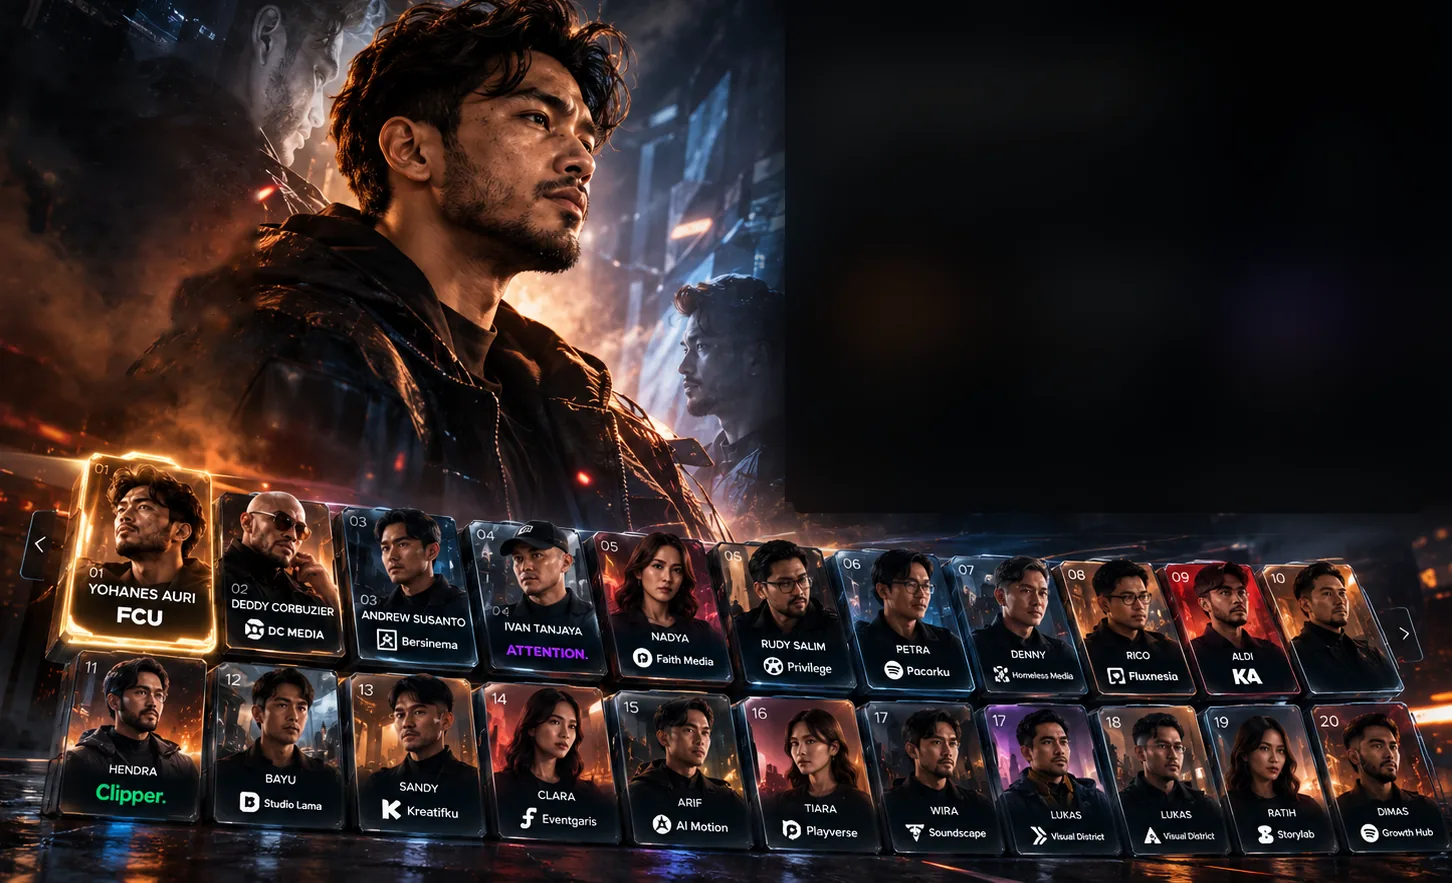
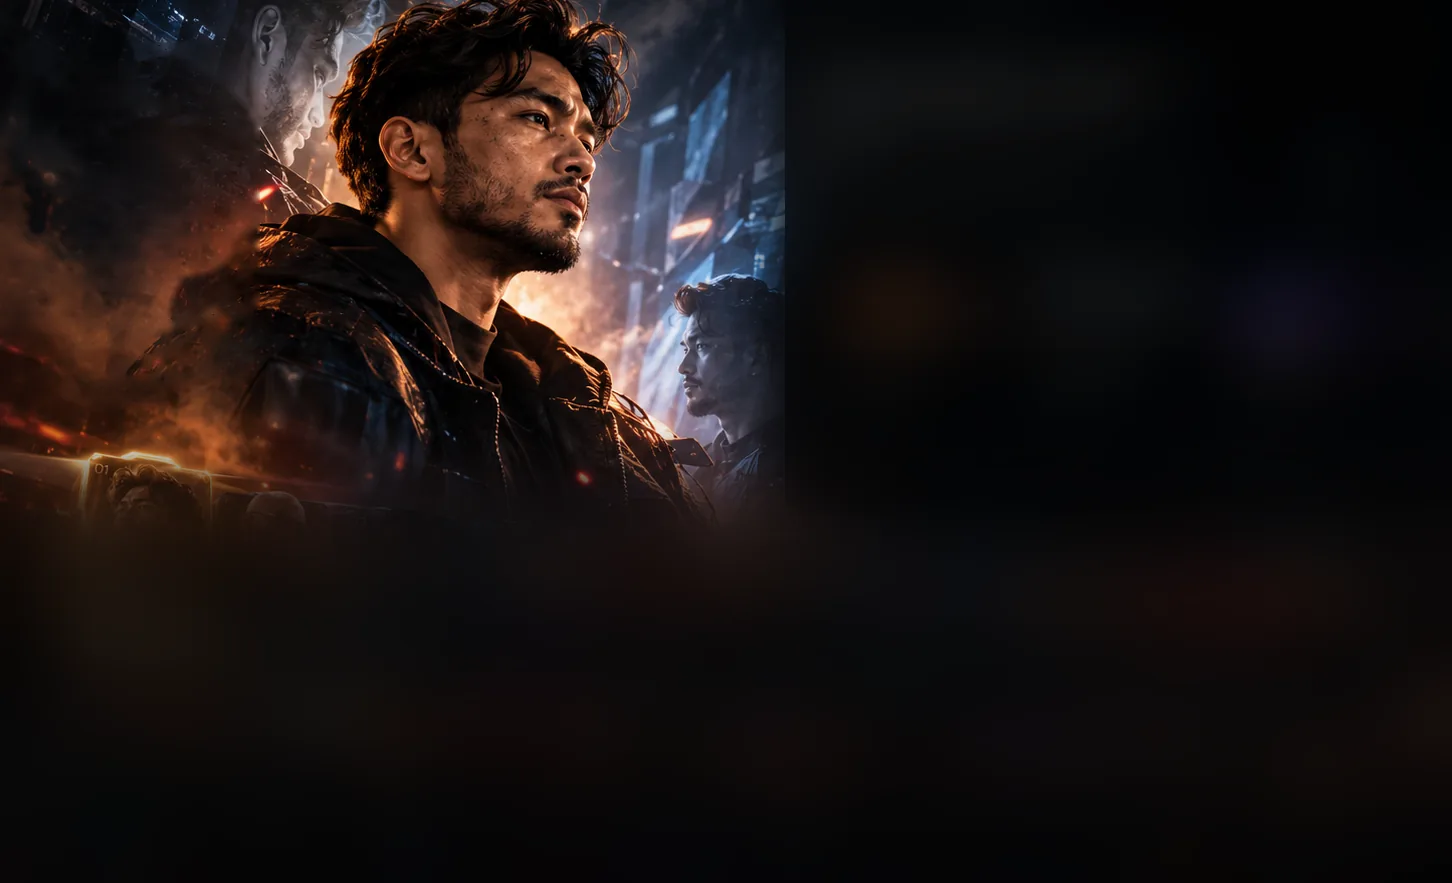
Partner Heroes: rebuild character deck as real HTML cards with portraits, names, brands, gold hover glow
Claude-Session: https://claude.ai/code/session_01QpfYAiXFaQHcA12hC36bw4

Changed region(s): [[0.0, 0.4892, 1.0, 1.0]]

diff --git a/index.html b/index.html
@@ -560,15 +560,30 @@
   .pg-body.heroes-body{position:absolute;inset:0;display:block;margin:0}
   .ph-art{position:absolute;left:0;bottom:0;width:100%;aspect-ratio:1452/883;background:url('heroes-art.webp') center/100% 100% no-repeat;-webkit-mask-image:linear-gradient(180deg,transparent 0,#000 7%);mask-image:linear-gradient(180deg,transparent 0,#000 7%)}
 
-  .ph-hot{position:absolute;padding:0;border:0;border-radius:.6rem;background:transparent;cursor:pointer;z-index:2;
-    transition:transform .3s cubic-bezier(.2,.8,.2,1),box-shadow .3s ease,backdrop-filter .3s ease}
-  .ph-hot::before{content:"";position:absolute;inset:-2px;border-radius:inherit;padding:2px;opacity:0;transition:opacity .3s ease;
+  .ph-deck{position:absolute;left:1.5%;right:1.5%;bottom:2.5%;height:37%;z-index:3;perspective:1600px}
+  .hc-grid{height:100%;display:grid;grid-template-columns:repeat(10,minmax(0,1fr));grid-template-rows:1fr 1fr;gap:3.5% .7%;padding:0 2.4%;
+    transform:rotateX(10deg) rotateY(-5deg);transform-origin:center bottom;transform-style:preserve-3d}
+  .hc{position:relative;min-width:0;min-height:0;padding:0;border:1px solid rgba(160,190,255,.28);border-radius:.55rem;overflow:hidden;cursor:pointer;color:#fff;font-family:inherit;
+    background:linear-gradient(180deg,rgba(20,26,40,.6),rgba(6,8,14,.95));box-shadow:inset 0 1px 0 rgba(255,255,255,.18),0 .6rem 1.2rem rgba(0,0,0,.55);
+    display:flex;flex-direction:column;align-items:center;justify-content:flex-end;padding-bottom:.55rem;
+    transition:transform .35s cubic-bezier(.2,.8,.2,1),box-shadow .35s ease,border-color .35s ease,filter .35s ease;filter:brightness(.82) saturate(.9);
+    animation:hcIn .6s cubic-bezier(.2,.8,.2,1) both;animation-delay:calc(var(--d)*45ms + 150ms)}
+  @keyframes hcIn{from{opacity:0;transform:translateY(1.5rem)}to{opacity:1;transform:none}}
+  .hc img{position:absolute;inset:0;width:100%;height:72%;object-fit:cover;object-position:center top;z-index:0;
+    -webkit-mask-image:linear-gradient(180deg,#000 55%,transparent 100%);mask-image:linear-gradient(180deg,#000 55%,transparent 100%)}
+  .hc::after{content:"";position:absolute;inset:0;z-index:1;pointer-events:none;background:linear-gradient(160deg,rgba(255,255,255,.14),transparent 30%,transparent 70%,rgba(255,255,255,.05))}
+  .hc-n{position:absolute;left:.45rem;top:.3rem;z-index:2;font-size:clamp(9px,1.3vh,13px);color:rgba(255,255,255,.85);text-shadow:0 1px 4px #000}
+  .hc-name{position:relative;z-index:2;font-size:clamp(7px,1.05vh,11px);font-weight:600;letter-spacing:.02em;white-space:nowrap;max-width:94%;overflow:hidden;text-overflow:ellipsis;text-shadow:0 1px 6px #000}
+  .hc-brand{position:relative;z-index:2;margin-top:.25rem;font-size:clamp(8px,1.25vh,13px);font-weight:800;letter-spacing:-.01em;white-space:nowrap;max-width:94%;overflow:hidden;text-overflow:ellipsis}
+  .hc[data-hero="3"] .hc-brand{color:#a64dff}.hc[data-hero="10"] .hc-brand{color:#2ee06f}
+  .hc::before{content:"";position:absolute;inset:0;border-radius:inherit;padding:2px;z-index:3;opacity:0;transition:opacity .3s ease;pointer-events:none;
     background:conic-gradient(from var(--ang,0deg),#7a4a10,#ffd77a 25%,#fff1c2 32%,#e0a43a 45%,#7a4a10 60%,#ffcf6a 82%,#7a4a10);
     -webkit-mask:linear-gradient(#000 0 0) content-box,linear-gradient(#000 0 0);-webkit-mask-composite:xor;mask-composite:exclude;animation:rim 2.4s linear infinite}
-  .ph-hot:hover,.ph-hot:focus-visible,.ph-hot.is-on{transform:translateY(-.35rem) scale(1.04);
-    -webkit-backdrop-filter:brightness(1.3) saturate(1.2);backdrop-filter:brightness(1.3) saturate(1.2);
-    box-shadow:0 0 1rem rgba(255,196,90,.95),0 0 2.8rem rgba(255,160,40,.6),inset 0 0 1.4rem rgba(255,200,110,.35);outline:none}
-  .ph-hot:hover::before,.ph-hot:focus-visible::before,.ph-hot.is-on::before{opacity:1}
+  .hc:hover,.hc:focus-visible,.hc.is-on{filter:none;border-color:rgba(255,205,110,.8);transform:translateZ(30px) translateY(-.4rem) scale(1.05);z-index:4;outline:none;
+    box-shadow:0 0 1rem rgba(255,196,90,.9),0 0 2.6rem rgba(255,160,40,.55),inset 0 0 1.4rem rgba(255,190,90,.3)}
+  .hc:hover::before,.hc:focus-visible::before,.hc.is-on::before{opacity:1}
+  .ph-dnav{position:absolute;top:22%;z-index:5;width:2.2rem;height:3.4rem;border:1px solid rgba(255,255,255,.25);border-radius:.5rem;background:rgba(10,14,22,.7);color:#fff;font-size:1.3rem;cursor:pointer}
+  .ph-dnav:hover{background:#fff;color:#111}.ph-dnav.prev{left:0}.ph-dnav.next{right:0}
   .ph-quote{position:absolute;left:2.6%;top:6.5%;width:min(15rem,22%);z-index:2;color:#fff;text-shadow:0 2px 12px rgba(0,0,0,.6)}
   .ph-tag{font-size:clamp(10px,1.35vh,13px);letter-spacing:.06em;line-height:1.35;color:rgba(255,255,255,.62)}
   .ph-tag::after{content:"";display:block;width:1.6rem;margin:.9rem 0 1.1rem;border-top:1px solid rgba(255,255,255,.5)}
@@ -577,7 +592,7 @@
   .ph-sign{margin-top:1.6rem;padding-left:2.4rem}
   .ph-sign b{display:block;font-size:clamp(12px,1.55vh,15px);font-weight:600;letter-spacing:.02em}
   .ph-sign span{font-size:clamp(11px,1.35vh,13px);color:rgba(255,255,255,.65)}
-  .ph-panel{position:absolute;right:1.6%;top:2.2%;width:min(44%,44rem);min-height:calc(100cqh - 24.9cqw - 2.2cqh);z-index:3;padding:1.3rem 1.4rem 1rem;border:1px solid rgba(255,255,255,.12);border-radius:.9rem;background:rgba(8,10,14,.84);
+  .ph-panel{position:absolute;right:1.6%;top:2.2%;width:min(44%,44rem);z-index:6;padding:1.1rem 1.3rem .9rem;border:1px solid rgba(255,255,255,.12);border-radius:.9rem;background:rgba(8,10,14,.88);
     -webkit-backdrop-filter:blur(10px);backdrop-filter:blur(10px);box-shadow:0 1rem 3rem rgba(0,0,0,.45);animation:ptIn .6s cubic-bezier(.2,.8,.2,1) both}
   .ph-top{display:flex;align-items:center;gap:.6rem}
   .ph-count{font-size:clamp(12px,1.55vh,15px);color:rgba(255,255,255,.85)}
@@ -598,7 +613,7 @@
   .ph-all{color:rgba(255,255,255,.85);text-decoration:none}
   .ph-projects{display:grid;grid-template-columns:repeat(3,1fr);gap:.6rem}
   .ph-projects article{border:1px solid rgba(255,255,255,.1);border-radius:.5rem;overflow:hidden;background:rgba(255,255,255,.03)}
-  .ph-projects img{display:block;width:100%;aspect-ratio:190/85;object-fit:cover}
+  .ph-projects img{display:block;width:100%;aspect-ratio:190/70;object-fit:cover}
   .ph-projects h4{font-size:clamp(9px,1.2vh,12px);font-weight:700;margin:.5rem .6rem .2rem;color:#fff}
   .ph-projects p{font-size:clamp(8px,1.05vh,11px);line-height:1.3;margin:0 .6rem .6rem;color:rgba(255,255,255,.65)}
   .ph-clients{margin-top:.8rem;padding-top:.7rem;border-top:1px solid rgba(255,255,255,.1)}
@@ -611,6 +626,10 @@
     .ph-art{position:relative;left:auto;transform:none;width:100%;border-radius:1rem;overflow:hidden}
     .ph-quote{position:relative;left:auto;top:auto;width:auto;padding:0 .4rem}
     .ph-panel{position:relative;right:auto;top:auto;width:auto;min-height:0}
+    .ph-deck{position:relative;left:auto;right:auto;bottom:auto;height:auto;perspective:none}
+    .hc-grid{transform:none;display:flex;overflow-x:auto;gap:.6rem;padding:.6rem .2rem 1rem;scrollbar-width:none}
+    .hc{flex:0 0 7.5rem;height:10.5rem}
+    .ph-dnav{display:none}
     .ph-art{-webkit-mask-image:none;mask-image:none}
     .ph-about{grid-template-columns:1fr}
     .ph-about ul{display:flex;flex-wrap:wrap;gap:.3rem .8rem;border-left:0;padding:0}
@@ -943,7 +962,8 @@
       lead:'Entrepreneurs, investors, and business leaders who believe in our vision and back companies across the Flux Creative Universe ecosystem.',
       body:`<section class="backers"><article class="backer"><img class="backer-photo" src="network-sign-1.webp" alt="Deddy Corbuzier signing with FCU" loading="lazy"><div class="backer-info"><h3>DEDDY CORBUZIER</h3><span class="backer-role">Strategic Partner &amp; Investor</span><div class="backer-brand"><img src="network-logo-1.webp" alt="" loading="lazy"><b>FCU<small>Flux Creative Universe</small></b></div><p>Strategic partner and investor supporting the growth of FCU across creative, media, and technology.</p><span class="backer-go" aria-hidden="true">→</span></div></article><article class="backer"><img class="backer-photo" src="network-sign-2.webp" alt="Andrew Susanto signing with FCU" loading="lazy"><div class="backer-info"><h3>ANDREW SUSANTO</h3><span class="backer-role">Investor</span><div class="backer-brand"><img src="network-logo-2.webp" alt="" loading="lazy"><b>Bersinema</b></div><p>Investor in Bersinema, our production house focused on films, series, and original content.</p><span class="backer-go" aria-hidden="true">→</span></div></article><article class="backer"><img class="backer-photo" src="network-sign-3.webp" alt="Ivan Tanjaya signing with FCU" loading="lazy"><div class="backer-info"><h3>IVAN TANJAYA</h3><span class="backer-role">Investor</span><div class="backer-brand"><img src="network-logo-3.webp" alt="" loading="lazy"><b>Privilege</b></div><p>Investor in Privilege, our activation and event business creating impactful brand experiences.</p><span class="backer-go" aria-hidden="true">→</span></div></article><article class="backer"><img class="backer-photo" src="network-sign-4.webp" alt="Hotman Paris signing with FCU" loading="lazy"><div class="backer-info"><h3>HOTMAN PARIS</h3><span class="backer-role">Investor</span><div class="backer-brand"><img src="network-logo-4.webp" alt="" loading="lazy"><b>Pacarku</b></div><p>Investor in Pacarku, our AI platform exploring new ways people connect and engage.</p><span class="backer-go" aria-hidden="true">→</span></div></article><article class="backer"><img class="backer-photo" src="network-sign-5.webp" alt="Grace Tahir signing with FCU" loading="lazy"><div class="backer-info"><h3>GRACE TAHIR</h3><span class="backer-role">Investor</span><div class="backer-brand"><img src="network-logo-5.webp" alt="" loading="lazy"><b>Faith Media</b></div><p>Investor in Faith Media, our media and intellectual property business creating meaningful content.</p><span class="backer-go" aria-hidden="true">→</span></div></article></section>`
     },
-    'PARTNER HEROES':{eye:'04 / Our Builders',heroes:true,lead:'',body:`<div class="ph-art" role="img" aria-label="Yohanes Auri dan deretan Partner Heroes FCU"><button class="ph-hot" data-hero="0" style="left:3.99%;top:51.19%;width:10.61%;height:21.52%" aria-label="Partner 1"></button><button class="ph-hot" data-hero="1" style="left:14.74%;top:56.86%;width:8.54%;height:15.62%" aria-label="Partner 2"></button><button class="ph-hot" data-hero="2" style="left:23.42%;top:58.55%;width:8.26%;height:15.06%" aria-label="Partner 3"></button><button class="ph-hot" data-hero="3" style="left:32.02%;top:59.69%;width:8.06%;height:14.72%" aria-label="Partner 4"></button><button class="ph-hot" data-hero="4" style="left:40.50%;top:60.48%;width:8.13%;height:14.49%" aria-label="Partner 5"></button><button class="ph-hot" data-hero="5" style="left:48.62%;top:61.95%;width:7.85%;height:13.70%" aria-label="Partner 6"></button><button class="ph-hot" data-hero="6" style="left:56.75%;top:62.75%;width:7.71%;height:13.81%" aria-label="Partner 7"></button><button class="ph-hot" data-hero="7" style="left:64.74%;top:63.31%;width:7.71%;height:13.81%" aria-label="Partner 8"></button><button class="ph-hot" data-hero="8" style="left:72.66%;top:63.88%;width:7.58%;height:13.81%" aria-label="Partner 9"></button><button class="ph-hot" data-hero="9" style="left:80.30%;top:64.22%;width:7.58%;height:13.81%" aria-label="Partner 10"></button><button class="ph-hot" data-hero="10" style="left:3.44%;top:75.88%;width:10.47%;height:16.88%" aria-label="Partner 11"></button><button class="ph-hot" data-hero="11" style="left:14.12%;top:76.56%;width:9.44%;height:16.99%" aria-label="Partner 12"></button><button class="ph-hot" data-hero="12" style="left:23.76%;top:77.47%;width:9.02%;height:17.22%" aria-label="Partner 13"></button><button class="ph-hot" data-hero="13" style="left:33.06%;top:78.15%;width:9.09%;height:17.22%" aria-label="Partner 14"></button><button class="ph-hot" data-hero="14" style="left:42.36%;top:78.83%;width:9.09%;height:17.44%" aria-label="Partner 15"></button><button class="ph-hot" data-hero="15" style="left:51.65%;top:80.41%;width:8.95%;height:16.54%" aria-label="Partner 16"></button><button class="ph-hot" data-hero="16" style="left:60.88%;top:80.98%;width:8.13%;height:16.42%" aria-label="Partner 17"></button><button class="ph-hot" data-hero="17" style="left:69.15%;top:81.55%;width:7.78%;height:16.31%" aria-label="Partner 18"></button><button class="ph-hot" data-hero="17" style="left:77.07%;top:81.55%;width:7.78%;height:16.31%" aria-label="Partner 18"></button><button class="ph-hot" data-hero="18" style="left:84.99%;top:81.55%;width:7.09%;height:16.31%" aria-label="Partner 19"></button><button class="ph-hot" data-hero="19" style="left:92.29%;top:81.55%;width:7.58%;height:16.31%" aria-label="Partner 20"></button></div>
+    'PARTNER HEROES':{eye:'04 / Our Builders',heroes:true,lead:'',body:`<div class="ph-art" role="img" aria-label="Yohanes Auri"></div>
+        <div class="ph-deck"><button class="ph-dnav prev" data-dir="-1" aria-label="Sebelumnya">‹</button><div class="hc-grid"><button class="hc is-on" data-hero="0" style="--d:0"><span class="hc-n">01</span><img src="heroes/p01.webp" alt="" loading="lazy"><span class="hc-name">YOHANES AURI</span><span class="hc-brand">FCU</span></button><button class="hc" data-hero="1" style="--d:1"><span class="hc-n">02</span><img src="heroes/p02.webp" alt="" loading="lazy"><span class="hc-name">DEDDY CORBUZIER</span><span class="hc-brand">DC MEDIA</span></button><button class="hc" data-hero="2" style="--d:2"><span class="hc-n">03</span><img src="heroes/p03.webp" alt="" loading="lazy"><span class="hc-name">ANDREW SUSANTO</span><span class="hc-brand">Bersinema</span></button><button class="hc" data-hero="3" style="--d:3"><span class="hc-n">04</span><img src="heroes/p04.webp" alt="" loading="lazy"><span class="hc-name">IVAN TANJAYA</span><span class="hc-brand">ATTENTION.</span></button><button class="hc" data-hero="4" style="--d:4"><span class="hc-n">05</span><img src="heroes/p05.webp" alt="" loading="lazy"><span class="hc-name">NADYA</span><span class="hc-brand">Faith Media</span></button><button class="hc" data-hero="5" style="--d:5"><span class="hc-n">06</span><img src="heroes/p06.webp" alt="" loading="lazy"><span class="hc-name">RUDY SALIM</span><span class="hc-brand">Privilege</span></button><button class="hc" data-hero="6" style="--d:6"><span class="hc-n">07</span><img src="heroes/p07.webp" alt="" loading="lazy"><span class="hc-name">PETRA</span><span class="hc-brand">Pacarku</span></button><button class="hc" data-hero="7" style="--d:7"><span class="hc-n">08</span><img src="heroes/p08.webp" alt="" loading="lazy"><span class="hc-name">DENNY</span><span class="hc-brand">Homeless Media</span></button><button class="hc" data-hero="8" style="--d:8"><span class="hc-n">09</span><img src="heroes/p09.webp" alt="" loading="lazy"><span class="hc-name">RICO</span><span class="hc-brand">Fluxnesia</span></button><button class="hc" data-hero="9" style="--d:9"><span class="hc-n">10</span><img src="heroes/p10.webp" alt="" loading="lazy"><span class="hc-name">ALDI</span><span class="hc-brand">KA</span></button><button class="hc" data-hero="10" style="--d:0"><span class="hc-n">11</span><img src="heroes/p11.webp" alt="" loading="lazy"><span class="hc-name">HENDRA</span><span class="hc-brand">Clipper.</span></button><button class="hc" data-hero="11" style="--d:1"><span class="hc-n">12</span><img src="heroes/p12.webp" alt="" loading="lazy"><span class="hc-name">BAYU</span><span class="hc-brand">Studio Lama</span></button><button class="hc" data-hero="12" style="--d:2"><span class="hc-n">13</span><img src="heroes/p13.webp" alt="" loading="lazy"><span class="hc-name">SANDY</span><span class="hc-brand">Kreatifku</span></button><button class="hc" data-hero="13" style="--d:3"><span class="hc-n">14</span><img src="heroes/p14.webp" alt="" loading="lazy"><span class="hc-name">CLARA</span><span class="hc-brand">Eventgaris</span></button><button class="hc" data-hero="14" style="--d:4"><span class="hc-n">15</span><img src="heroes/p15.webp" alt="" loading="lazy"><span class="hc-name">ARIF</span><span class="hc-brand">AI Motion</span></button><button class="hc" data-hero="15" style="--d:5"><span class="hc-n">16</span><img src="heroes/p16.webp" alt="" loading="lazy"><span class="hc-name">TIARA</span><span class="hc-brand">Playverse</span></button><button class="hc" data-hero="16" style="--d:6"><span class="hc-n">17</span><img src="heroes/p17.webp" alt="" loading="lazy"><span class="hc-name">WIRA</span><span class="hc-brand">Soundscape</span></button><button class="hc" data-hero="17" style="--d:7"><span class="hc-n">18</span><img src="heroes/p18.webp" alt="" loading="lazy"><span class="hc-name">LUKAS</span><span class="hc-brand">Visual District</span></button><button class="hc" data-hero="18" style="--d:8"><span class="hc-n">19</span><img src="heroes/p19.webp" alt="" loading="lazy"><span class="hc-name">RATIH</span><span class="hc-brand">Storylab</span></button><button class="hc" data-hero="19" style="--d:9"><span class="hc-n">20</span><img src="heroes/p20.webp" alt="" loading="lazy"><span class="hc-name">DIMAS</span><span class="hc-brand">Growth Hub</span></button></div><button class="ph-dnav next" data-dir="1" aria-label="Berikutnya">›</button></div>
         <div class="ph-quote">
           <div class="ph-tag">DIFFERENT<br>EXPERTISES<br>ONE ECOSYSTEM<br>BIGGER<br>OPPORTUNITIES</div>
           <blockquote id="phQuote">Building next-generation creative businesses for Indonesia and beyond.</blockquote>
@@ -1234,13 +1254,13 @@
     $('phTags').innerHTML=main?first.tags:'';
     $('phExtra').style.display=main?'':'none';
     $('phQuote').textContent=main?first.quote:'Different expertises, one ecosystem.';
-    document.querySelectorAll('.ph-hot').forEach(function(x){x.classList.toggle('is-on',Number(x.dataset.hero)===cur&&cur!==0)});
+    document.querySelectorAll('.hc').forEach(function(x){x.classList.toggle('is-on',Number(x.dataset.hero)===cur)});
     $('phSignName').textContent=h[0]; $('phSignRole').textContent=h[1]+(main?'':' · '+h[2]);
   };
   document.addEventListener('click',function(e){
-    var h=e.target.closest&&e.target.closest('.ph-hot');
+    var h=e.target.closest&&e.target.closest('.hc');
     if(h){e.preventDefault();e.stopPropagation();window.fcuHeroShow(Number(h.dataset.hero));return;}
-    var b=e.target.closest&&e.target.closest('.ph-nav'); if(!b)return;
+    var b=e.target.closest&&e.target.closest('.ph-nav,.ph-dnav'); if(!b)return;
     e.preventDefault(); e.stopPropagation(); window.fcuHeroShow(cur+Number(b.dataset.dir));
   });
 })();
